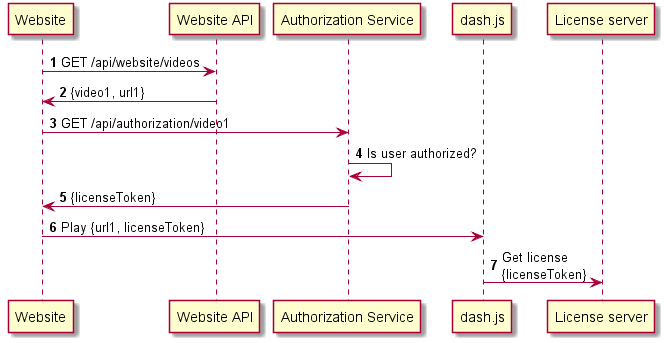
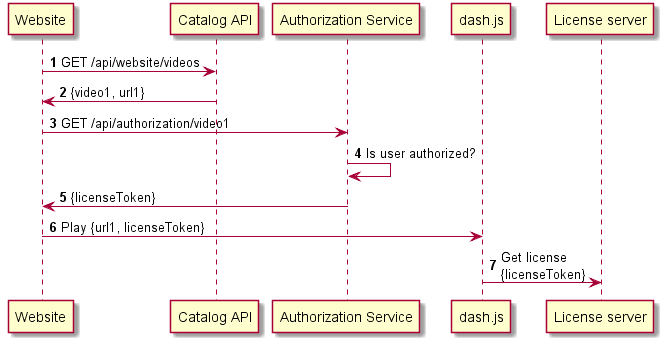
Website API -> Catalog API

diff --git a/Server.js b/Server.js
@@ -15,9 +15,9 @@
     // At /, we serve the website folder as static resources.
     app.use(express.static(__dirname + '/Website'));
 
-    // At /api/website is the website's API that provides data for the frontend.
-    let websiteApi = require("./WebsiteApi");
-    app.use("/api/website", websiteApi.createRouter());
+    // At /api/catalog is the catalog API that provides data for the frontend.
+    let catalogApi = require("./CatalogApi");
+    app.use("/api/catalog", catalogApi.createRouter());
 
     // At /api/authorization is the authorization service.
     let authorizationServiceApi = require("./AuthorizationServiceApi");

diff --git a/Website/Index.html b/Website/Index.html
@@ -97,7 +97,7 @@
             }
 
             // Let's first populate the video list.
-            $.getJSON("/api/website/videos")
+            $.getJSON("/api/catalog/videos")
                 .done(function(videos) {
                     console.log("Server provided " + videos.length + " videos.");
 
@@ -121,7 +121,7 @@
                     $videoListPanel.show();
                 })
                 .fail(function() {
-                    console.log("Web API call to get videos failed!");
+                    console.log("API call to get video catalog failed!");
                 });
             });
     </script>

diff --git a/Readme.md b/Readme.md
@@ -55,18 +55,18 @@ The sample project implements a basic website that enables the user to select a 
 
 The main building blocks of the sample are:
 
-* *Server.js* - creates an HTTP server that publishes the website, the website API and the authorization service.
+* *Server.js* - creates an HTTP server that publishes the website, the catalog API and the authorization service.
 * *VideoDatabase.js* - defines the list of videos made available to the user.
-* *WebsiteApi.js* - implements the website API that is used by browser-side JavaScript code to obtain the list of videos.
+* *CatalogApi.js* - implements the catalog API that is used by browser-side JavaScript code to obtain the list of videos.
 * *AuthorizationServiceApi.js* - implements the authorization service API that makes authorization decisions when the browser-side JavaScript code requests permission to play back content; license tokens are provided by this API.
-* *Website/Index.html* - the page loaded in the browser, including the browser-side JavaScript code; it communicates with the website API and the authorization service API using REST web service calls; the website plays videos using the dash.js player.
+* *Website/Index.html* - the page loaded in the browser, including the browser-side JavaScript code; it communicates with the catalog API and the authorization service API using REST web service calls; the website plays videos using the dash.js player.
 
 ![](Images/Sample - workflow.png)
 
 In terms of executed workflows, the following takes place:
 
-1. When the website is loaded in a browser, the browser-side JavaScript code contacts the website API to retrieve the list of videos.
-1. The website API simply returns whatever videos are listed in *VideoDatabase.js*. By default, there is just one video titled "Axinom demo video".
+1. When the website is loaded in a browser, the browser-side JavaScript code contacts the catalog API to retrieve the list of videos.
+1. The catalog API simply returns whatever videos are listed in *VideoDatabase.js*. By default, there is just one video titled "Axinom demo video".
 1. When the user clicks on a video link to start playback, the browser-side JavaScript code requests authorization from the authorization service API.
 1. The authorization service will authorize every request, as there is no need to actually refuse playback in the sample scenarios. There are comments in the code indicating the location where actual authorization checking logic would go. 
 1. If the website requested permission to play "Axinom demo video" then the authorization service simply returns a hardcoded license token. This is a special case to keep the first sample scenario very simple. Other scenarios introduced below will use a more realistic workflow. 
@@ -77,7 +77,7 @@ The code is thoroughly commented, so the above is only a high-level overview. To
 
 # Sample scenario 2: creating your own license tokens
 
-In this scenario, we will modify the sample project to generate a unique license token upon every request, instead of returning a hardcoded license token.
+In this scenario, we will modify the sample project to generate a unique license token upon every request, instead of returning a hardcodedg license token.
 
 You will need an [Axinom DRM evaluation account](http://drm.axinom.com/evaluation-account/) in order to proceed. Upon signing up, you will receive a document titled "Axinom DRM Fact Sheet" that will contain some information required below.
 
